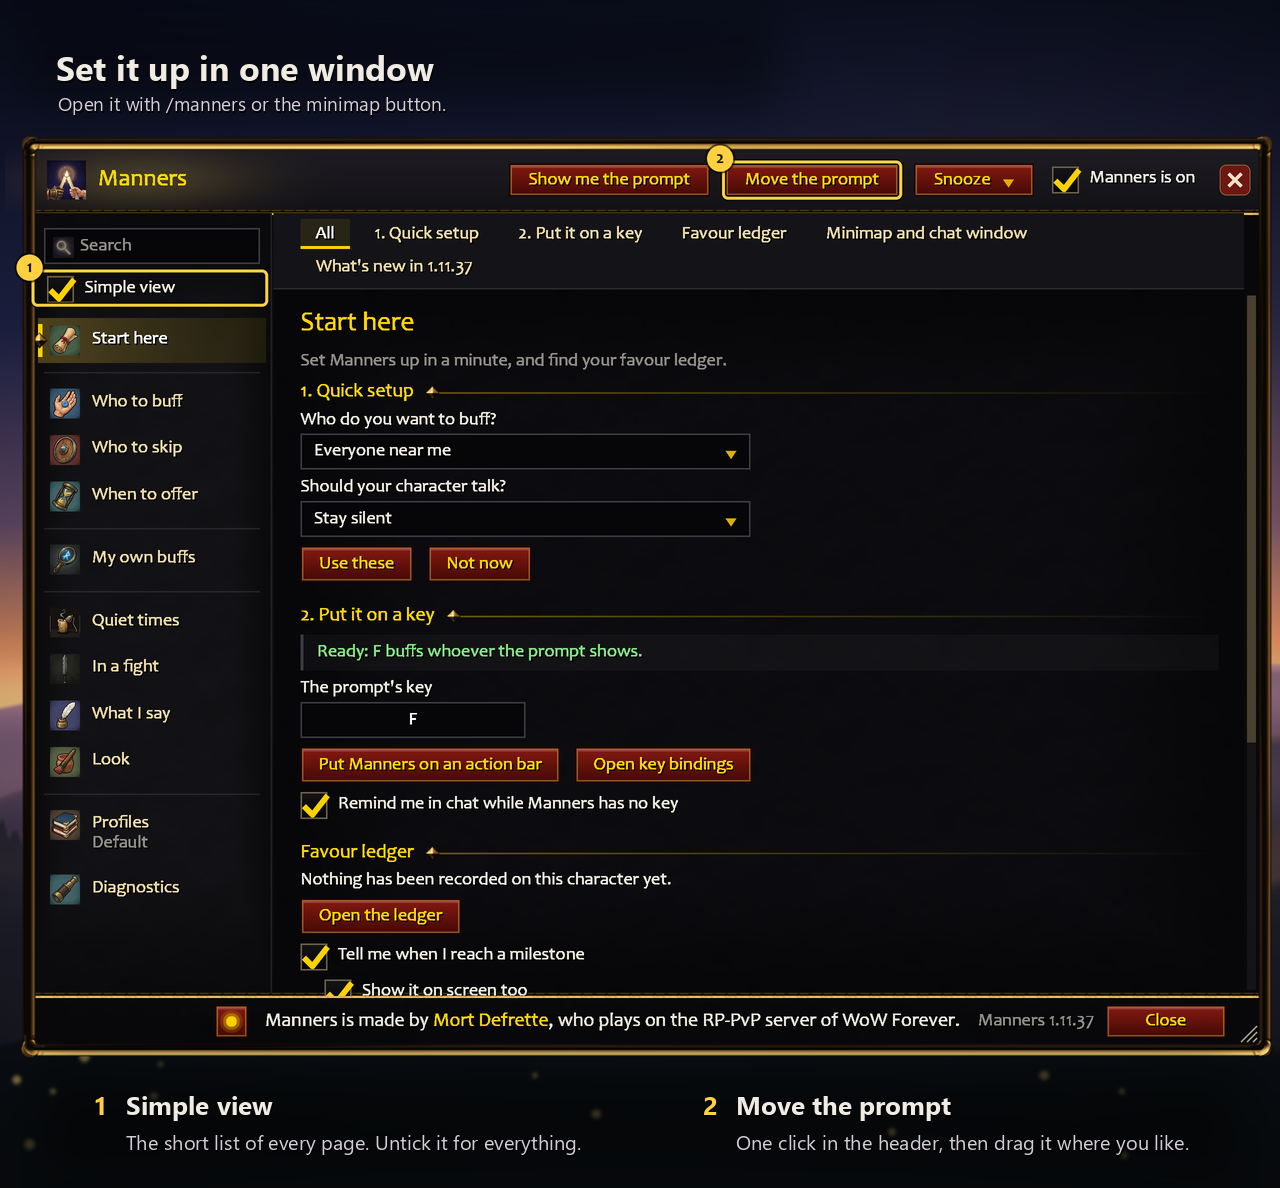
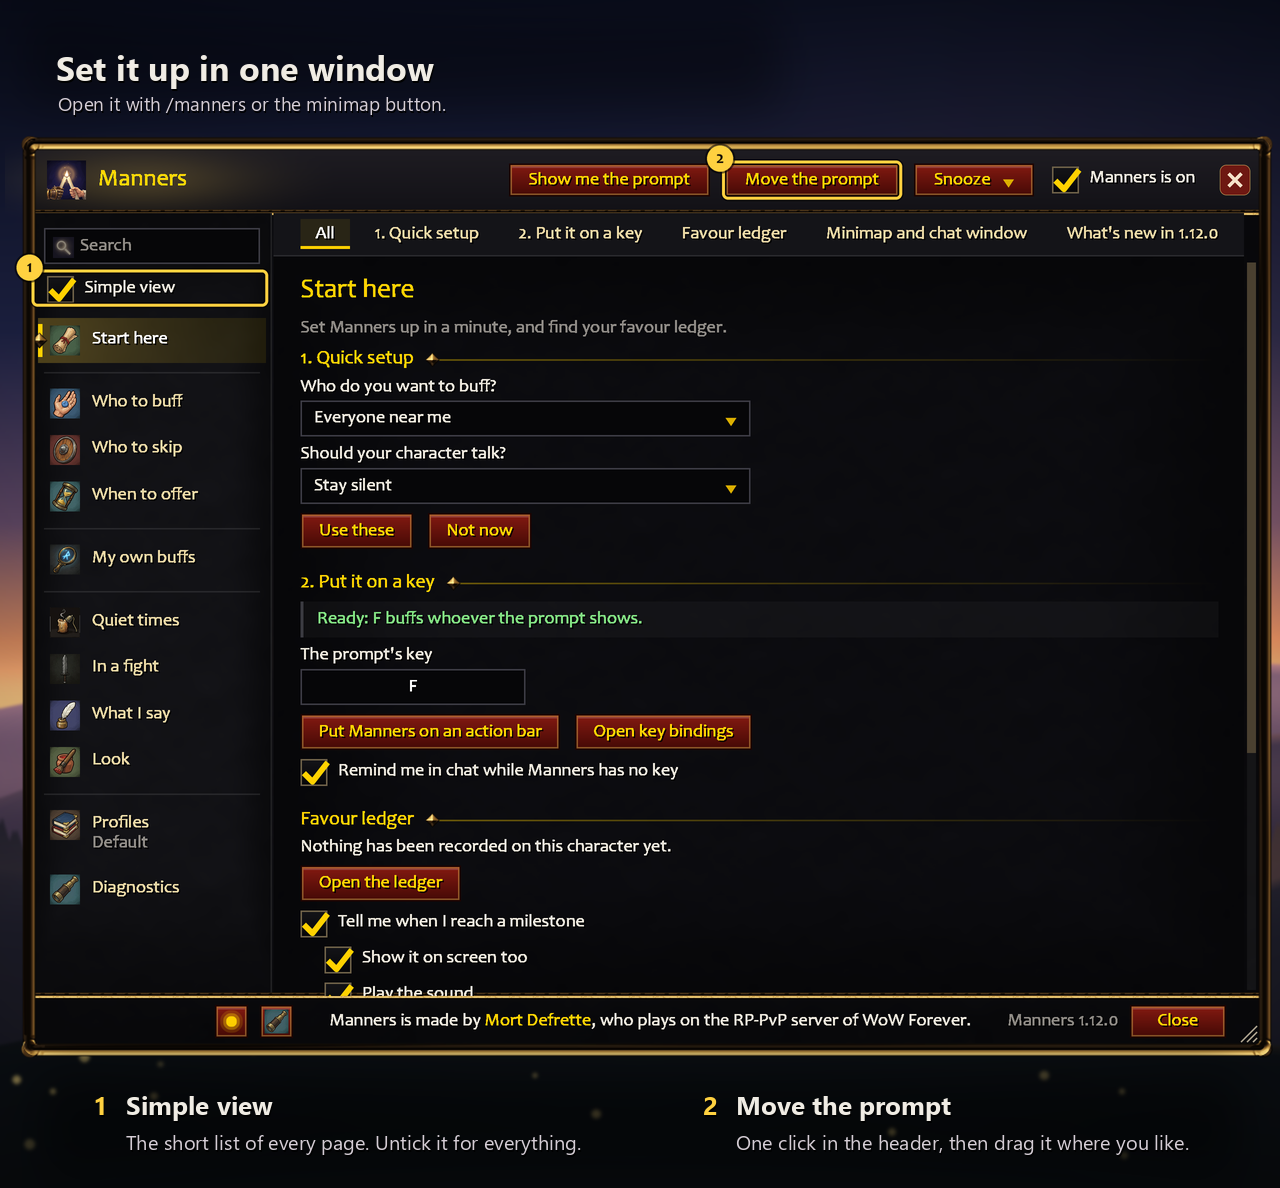
Tests follow 1.12's defaults: scenarios tick the own-buff extras they are about
The 1.12 defaults switched a weapon's poison, stone, oil or lure, Forever's
mage scrolls, tracking and Make a healthstone off. tests/scenarios.lua's new
H.extrasOn(ns) ticks them to Automatic, as a player would, after each
scenario's load in the files that are about them; settings-fixes exports an
Automatic pick (now the non-default) for the imbue and the Familiar. The
listing's poison shot ticks the poison families; the listing images are
redrawn from the 1.12 addon.

diff --git a/tools/make-screenshots.py b/tools/make-screenshots.py
@@ -678,6 +678,13 @@ local added = {
 		carrying({ [INSTANT_POISON] = 2 }, { [16] = DAGGER, [17] = DAGGER }, 60)
 		know(ns, "ROGUE", {}, {})
 		boot(ns, {})
+		-- A weapon's poison is off by default since 1.12: ticked to Automatic,
+		-- as the rogue in the picture has.
+		for _, families in pairs(ns.OWN_BUFFS or {}) do
+			for _, family in ipairs(families) do
+				if family.enhance then ns.db.profile.ownBuffs.pick[family.key] = "auto" end
+			end
+		end
 		settle(ns)
 	end },
 	-- A mage who has dropped her own Arcane Intellect: the buff she gives
